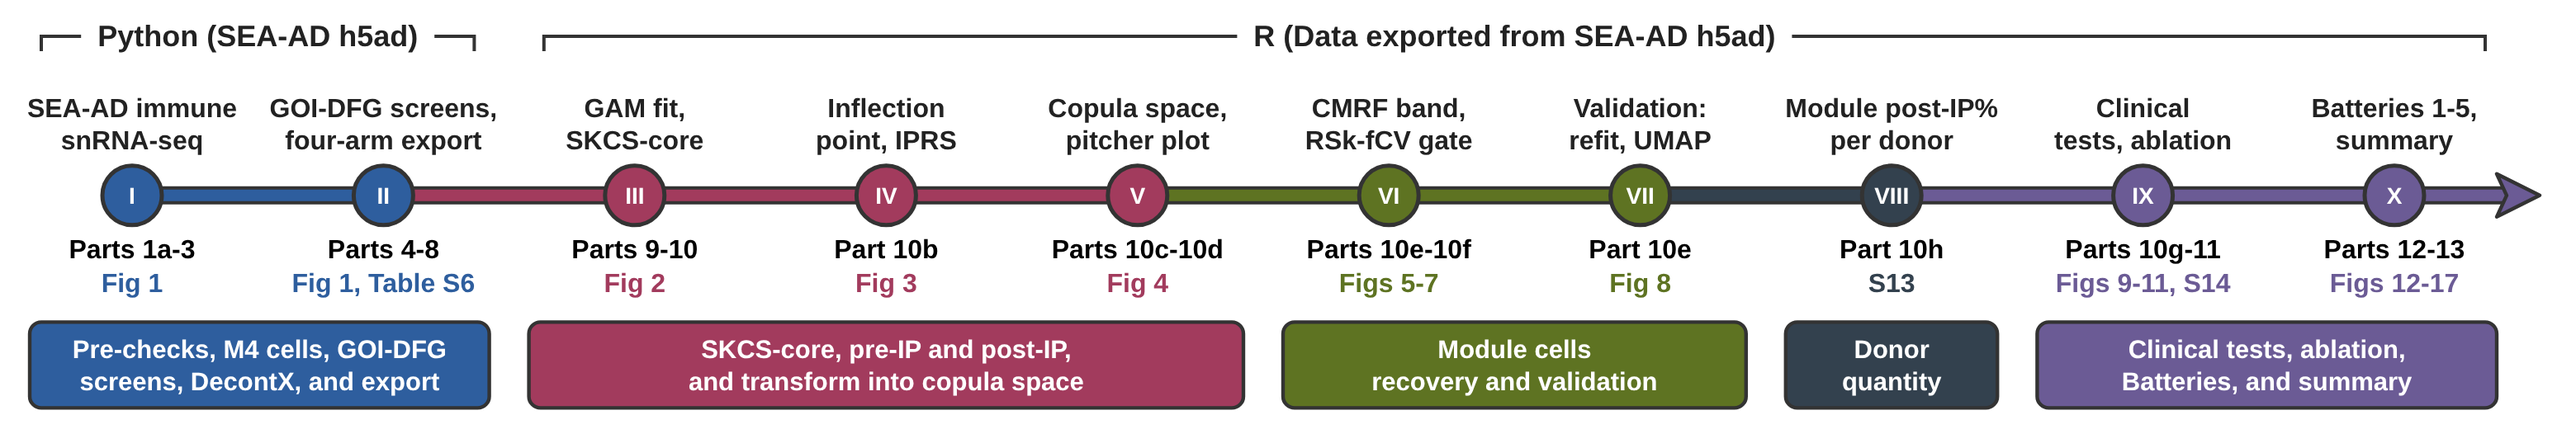
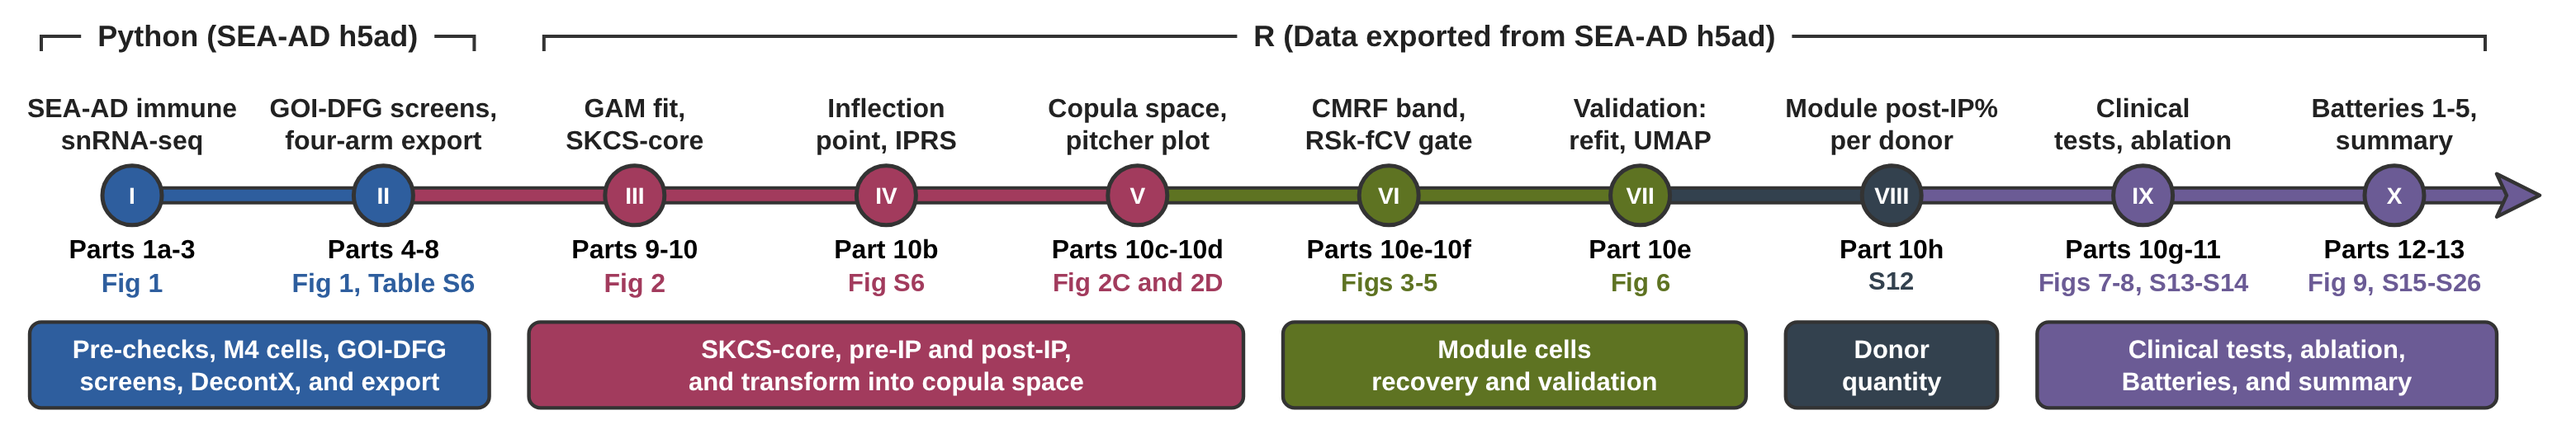
Align with the submitted version (bioRxiv v2): abstract, links, figure numbers, Workflow.png, CRAN note, external-validation run settings

diff --git a/README.md b/README.md
@@ -7,7 +7,7 @@
 [![Project Page](https://img.shields.io/badge/Code-GitHub-4E81BE?logo=github&logoColor=white&style=flat-square)](https://github.com/kahkengwong/CEP-IP_with_CMRF_in_SEA-AD)
 [![Dataset](https://img.shields.io/badge/Dataset-Hugging%20Face-B08C00?logo=huggingface&logoColor=F3D34E&style=flat-square)](https://huggingface.co/datasets/kahkengwong/CEP-IP_with_CMRF_in_SEA-AD)
 [![Supplementary](https://img.shields.io/badge/Supplementary-Zenodo-1682D4?logo=zenodo&logoColor=white&style=flat-square)](https://zenodo.org/records/23719390)
-[![Preprint](https://img.shields.io/badge/Preprint-bioRxiv-B31B1B?style=flat-square)](https://www.biorxiv.org/content/10.64898/2026.10.22.761284v1)
+[![Preprint](https://img.shields.io/badge/Preprint-bioRxiv-B31B1B?style=flat-square)](https://www.biorxiv.org/content/10.64898/2026.10.22.761284v2)
 [![Container](https://img.shields.io/badge/Container-Podman%20%7C%20Docker-892CA0?logo=podman&logoColor=white&style=flat-square)](#6-reproducing-the-analysis)
 [![R package](https://img.shields.io/badge/R%20package-cepip-276DC3?logo=r&logoColor=white&style=flat-square)](https://github.com/kahkengwong/cepip) [![CRAN](https://img.shields.io/cran/v/cepip?label=CRAN&logo=r&logoColor=white&color=276DC3&style=flat-square)](https://CRAN.R-project.org/package=cepip)
 
@@ -50,15 +50,9 @@
 <details>
 <summary><strong>Abstract (click to expand)</strong></summary>
 
-**Background:** Single-nucleus RNA-seq (snRNA-seq) studies of Alzheimer's disease (AD) routinely filter nuclei by mitochondrial percentage (%MT) or remove mitochondrial genes, yet whether these reads carry information about cognition is rarely examined.
+Single-nucleus RNA-seq (snRNA-seq) studies of Alzheimer's disease (AD) routinely filter nuclei by mitochondrial percentage (%MT), yet whether these reads carry information about cognition is rarely examined. In the Seattle Alzheimer's Disease Brain Cell Atlas (SEA-AD) microglia snRNA-seq dataset, a transcriptome-wide screen identified *MT-CO3* and eight co-expressed mitochondrial genes (*MT-CO3* module). Three microglial populations were analyzed: PVM_3, M4 (Mic.13-like), and PVM_1, with a housekeeping-gene control. The CEP-IP pipeline with a copula monotone recovery filter (CMRF) isolated cells following this module (Module cells) using per-cell Spearman and Kendall scores, an inflection point (IP), and a cross-validated copula space boundary. The donor percentage of Module cells past the IP (Module post-IP%) was associated with worse cognition (MMSE and CASI; FDR<0.05) in all three populations. In PVM_3 and M4, these associations remained significant after adjustment for tissue quality, pathology, or contamination, and after doublet removal. No per-cell %MT cutoff reproduced Module cells. In two external datasets without cognitive scores, the *MT-CO3* module and its IP replicated. Excluding mitochondrial genes or applying strict %MT cutoffs may therefore remove cells linked to cognition. However, the source of the mitochondrial transcripts remains unresolved. The R package cepip and a container that reproduced the findings are publicly available.
 
-**Methods:** In the SEA-AD microglia snRNA-seq dataset, a transcriptome-wide screen identified a module of *MT-CO3* and eight co-expressed mitochondrial genes. Three microglial populations were analyzed: M4 (Mic.13-like), PVM_3, and PVM_1, with a housekeeping-gene control in M4 cells. The CEP-IP pipeline with a copula monotone recovery filter (CMRF) used per-cell Spearman and Kendall scores, an inflection point (IP), and a cross-validated copula space boundary to isolate *MT-CO3* Module cells.
-
-**Results:** The donor percentage of Module cells past the IP (Module post-IP%) was significantly associated with worse cognition (MMSE and CASI; FDR<0.05) in all three populations. In M4 and PVM_3, these associations remained significant after adjustment for tissue quality, plaque burden, tangle burden, and contamination, and after doublet removal. M4 and PVM_3 Module post-IP% repeated in each donor's regions beyond chance, and no per-cell %MT cutoff reproduced the Module cells. However, at the donor level, Module post-IP% could not be separated from mean %MT, and the source of the mitochondrial transcripts (e.g., retained cytoplasm or a true change in mitochondrial content) remains unresolved.
-
-**Conclusions:** Routine %MT filtering in AD snRNA-seq may therefore remove cells that carry information about cognition. The full pipeline code, software container, processed data, and the R package cepip are publicly available, and reruns of the full pipeline in the container reproduced the original findings.
-
-> K.K. Wong (2026). CEP-IP with CMRF in SEA-AD Microglia: A Mitochondrial Co-expression Module Linked to Cognition. *bioRxiv*. https://www.biorxiv.org/content/10.64898/2026.10.22.761284v1
+> K.K. Wong (2026). CEP-IP with CMRF in SEA-AD Microglia: A Mitochondrial Co-expression Module Linked to Cognition. *bioRxiv*. https://www.biorxiv.org/content/10.64898/2026.10.22.761284v2
 
 </details>
 
@@ -85,8 +79,8 @@
 - **R Parts 9 to 13** take the data exported from the SEA-AD h5ad by Part 8: GAM fits, the Spearman-Kendall cell-level scores (SKCS), the inflection point (IP and IPRS), copula space, the CMRF Module, differential expression, the donor-level clinical models, the Module boundary ablation, the five Batteries (Part 12), and the M4 analyses (Part 13).
 
 **Four arms are analyzed in parallel:**
-1. **M4** - Mic.13-like cells shortlisted from Micro-PVM_3 cells (primary arm).
-2. **PVM_3** - all Micro-PVM_3 cells.
+1. **M4** - Mic.13-like cells shortlisted from Micro-PVM_3 cells (the primary arm when the pipeline was built).
+2. **PVM_3** - all Micro-PVM_3 cells (the recommended arm).
 3. **PVM_1** - all Micro-PVM_1 cells.
 4. **HKG8** - control: the M4 cells analyzed with ACTB as the gene of interest (GOI) and eight other housekeeping genes as its partners.
 
@@ -107,7 +101,7 @@
 <tr><td align="left" colspan="2"><b>2. Gerrits et al. single-nucleus dataset (GSE148822)</b></td></tr>
 <tr><td align="left"><b>Used in</b></td><td align="left">Battery 1 (ambient RNA)</td></tr>
 <tr><td align="left"><b>Available from</b></td><td align="left"><a href="https://www.ncbi.nlm.nih.gov/geo/query/acc.cgi?acc=GSE148822">GEO</a></td></tr>
-<tr><td align="left"><b>Reference</b></td><td align="left">E. Gerrits, N. Brouwer, S.M. Kooistra, M.E. Woodbury, Y. Vermeiren, et al., Distinct amyloid-beta and tau-associated microglia profiles in Alzheimer's disease, Acta Neuropathol, 141 (2021) 681-696. doi: 10.1007/s00401-021-02263-w</td></tr>
+<tr><td align="left"><b>Reference</b></td><td align="left">E. Gerrits, N. Brouwer, S.M. Kooistra, M.E. Woodbury, Y. Vermeiren, et al., Distinct amyloid-beta and tau-associated microglia profiles in Alzheimer's disease, Acta Neuropathol, 141 (2021) 681-696. <a href="https://doi.org/10.1007/s00401-021-02263-w">https://doi.org/10.1007/s00401-021-02263-w</a></td></tr>
 <tr><td align="left" colspan="2"><b>3. External dataset 1: Pineda et al. (2024)</b></td></tr>
 <tr><td align="left"><b>Files</b></td><td align="left"><ul><li>Raw reads of the 63 BA9 libraries of batch 210526: SRA <code>PRJNA1073234</code> (SRA Lite)</li><li>Donor metadata: <code>S01_sample_information.xlsx</code>, and the authors' per-library metadata (<code>&lt;LIB&gt;_col_metadata.tsv</code>)</li></ul></td></tr>
 <tr><td align="left"><b>Used in</b></td><td align="left">External validation 1 (<a href="#8-external-validation">Section 8</a>)</td></tr>
@@ -188,7 +182,7 @@ The five figures below follow the main steps of the analysis, using M4 NeoC as t
 | Path | Contents |
 |---|---|
 | `scripts/Python/` | <ul><li>The 23 Python scripts: Parts 1 to 8 and the Part 12 extraction step (`Part12_02_Extract.py`)</li><li>`Mic13_genes.txt`: the Mic.13 gene table read by Part 5b (from Green et al. 2024, Extended Data Fig. 2c)</li></ul> |
-| `scripts/R/` | <ul><li>The R scripts of Parts 9 to 13 and `Fig17_Summary_code.r`</li><li>The shared arm table and settings: `CEP_arms.R`, `R_config.R`, `R_config_HKG8.R`</li><li>The Part 12 settings: `Part12_01_config.json`, `Part12_Fig19_config.json`</li><li>The pre-specified readings of the Batteries: `Part12_Preset_Readings.md`, `Part12_Preset_Readings_Battery5.md`</li></ul> |
+| `scripts/R/` | <ul><li>The R scripts of Parts 9 to 13 and `Fig17_Summary_code.r`</li><li>The shared arm table and settings: `CEP_arms.R`, `R_config.R`, `R_config_HKG8.R`</li><li>The Part 12 settings: `Part12_01_config.json`, `Part12_Fig19_config.json`</li><li>The pre-specified readings of the Batteries: `Batteries_1-5_Pre-specified_Readings.md` and `Batteries_1-5_Pre-specified_Readings_Battery5.md` (named `Part12_Preset_Readings*.md` in the logs)</li></ul> |
 | `scripts/SuppTables/` | The scripts that build Supplementary Tables S1 to S19 from the pipeline outputs:<ul><li>One builder per table: `build_SuppTable_S<n>`</li><li>`finalize_supp_tables.py`: published sheet names, Contents and wording, from `supp_tables_contents.json`</li><li>`run_supp_tables.sh`</li><li>`compare_supp_tables.py`</li></ul> |
 | `Containerfile` | Recipe for the container image (R 4.6.1, Python 3.13.14, all packages). Works with Podman or Docker. |
 | `seaad-setup.sh` | Run once inside the container: copies the settings into the data folder and checks the inputs. |
@@ -196,7 +190,7 @@ The five figures below follow the main steps of the analysis, using M4 NeoC as t
 | `README_container.md` | Container build, inputs, and the full run order. |
 | `renv.lock` | Exact R package versions (R 4.6.1, Bioconductor 3.23; 280 packages). |
 | `requirements-python.txt` | Exact Python package versions (Python 3.13.14). |
-| `verification/` | <ul><li>`run_rest.sh` and `run_python.sh`: the run scripts used for the reproducibility check, before `seaad-run`</li><li>`compare_rerun.py`, `compare_python.py`, and `compare_gamdata.py`: compare a rerun with the original results</li><li>The comparisons of the container reruns with the original results: `compare_all_*` for R; `compare_python_*` and `compare_gamdata_log.txt` for Python</li></ul> |
+| `verification/` | <ul><li>`run_rest.sh` and `run_python.sh`: the run scripts used for the reproducibility check, before `seaad-run`</li><li>`compare_rerun.py`, `compare_python.py`, and `compare_gamdata.py`: compare a rerun with the original results</li><li>The comparisons of the container reruns with the original results: `compare_all_*` for R; `compare_python_*` and `compare_gamdata_log.txt` for Python</li><li>`fulltest_*`: the comparisons of the one-command run (`seaad-run all --compare`)</li><li>`windows_test/`: the independent test on Windows 11</li></ul> |
 | `external_validation/` | <ul><li>`README.md`: the datasets, results, rerun steps, and reproducibility checks of both external validations</li><li>`Pineda/`: the download and Cell Ranger scripts, the scripts R02 to R17, the Table S20 builder, the container recipe, the run script `pineda-run`, and `README_container_Pineda.md`</li><li>`Rexach/`: the scripts R11 to R17, the Table S21 builder, the container recipe, the run script `rexach-run`, and `README_container_Rexach.md`</li><li>`Pineda/verification/` and `Rexach/verification/`: the comparisons of the container reruns with the original results</li></ul> |
 | `figures/` | The workflow figure (`Workflow.png`) and Figures 1 to 5 of the Methods and Key Results section. |
 | `logs/` | <ul><li>`container_rerun/`: console logs of the container rerun of R Part 9 onward and the Part 12 Python step</li><li>`container_rerun_python/`: console logs of the container rerun of Python Parts 1 to 8</li><li>`container_fullrun/`: console logs of the one-command run (`seaad-run all`) in a new folder</li><li>`original_R/`: logs of the original runs from Part 9 onward</li><li>`original_python/`: logs of the original runs of Python Parts 1 to 8</li><li>`logs/README.md` describes each folder and maps the Python logs to their scripts</li></ul> |
@@ -207,7 +201,7 @@ The five figures below follow the main steps of the analysis, using M4 NeoC as t
 Figure and table numbers are those of the preprint.
 
 > [!NOTE]
-> The Part 12 file names (`Fig15` to `Fig19`) follow the run order of the Batteries; they correspond to preprint Figures 12 to 16.
+> Figure numbers in file names are those of the original analysis run: `Part12_Fig15` to `Part12_Fig19` are Supplementary Figures S15, S17, S19, S21, and S24, `Part10h_CP10K_Comparator_Fig13_code.r` is Figure 8, and `Fig17_Summary_code.r` is Figure 9.
 
 <details>
 <summary><strong>Python scripts (SEA-AD h5ad): Parts 1 to 8 and the Part 12 extraction (click to expand)</strong></summary>
@@ -222,12 +216,12 @@ Figure and table numbers are those of the preprint.
 | 6 | `Part1f_Ordinals_code.py` | Clinical ordinals and donor table with tissue-quality covariates. | Pre-check |
 | 7 | `Part1g_TrendReconcile_code.py` | Detectability trend on two abundance axes. | Figure 1G |
 | 8 | `Part2_NeoC_CP10K_code.py`<br>`Part2_NonNeoC_CP10K_code.py` | M4 selection with the Mic.13 signature; writes the donor clinical tables. | Supplementary Figure S1A, Table S1 |
-| 9 | `Part3_M4Composition_code.py` | Supertype composition of the M4 set. | Figure 1B |
-| 10 | `Part4_NeoC_ScreenScatter.py`<br>`Part4_NonNeoC_ScreenScatter.py` | PVM_3 pooled GOI-DFG screen. | Figure 1D |
-| 11 | `Part5_NeoC_DEGs.py`<br>`Part5_NonNeoC_DEGs.py` | Pseudobulk DEGs of M4 cells. | Figure 1 |
-| 12 | `Part5b_NeoC_Validation.py`<br>`Part5b_NonNeoC_Validation.py` | Mic.13 equivalence validation. | Figure 1 |
-| 13 | `Part6_NeoC_GOI-DFG_code.py`<br>`Part6_NonNeoC_GOI-DFG_code.py` | GOI-DFG screen by region and supertype. | Figure 1, Tables S2 to S4 |
-| 14 | `Part6b_NeoC_Pooled_GOI-DFG.py`<br>`Part6b_NonNeoC_Pooled_GOI-DFG.py` | Pooled GOI-DFG screen in seven immune supertypes. | Figure 1, Tables S2 to S4 |
+| 9 | `Part3_M4Composition_code.py` | Supertype composition of the M4 set. | Figure 1A and 1B |
+| 10 | `Part4_NeoC_ScreenScatter.py`<br>`Part4_NonNeoC_ScreenScatter.py` | PVM_3 pooled GOI-DFG screen. | Figure 1C and 1D |
+| 11 | `Part5_NeoC_DEGs.py`<br>`Part5_NonNeoC_DEGs.py` | Pseudobulk DEGs of M4 cells. | Table S2 |
+| 12 | `Part5b_NeoC_Validation.py`<br>`Part5b_NonNeoC_Validation.py` | Mic.13 equivalence validation. | Table S2 |
+| 13 | `Part6_NeoC_GOI-DFG_code.py`<br>`Part6_NonNeoC_GOI-DFG_code.py` | GOI-DFG screen by region and supertype. | Figure 1E, Tables S3 and S4 |
+| 14 | `Part6b_NeoC_Pooled_GOI-DFG.py`<br>`Part6b_NonNeoC_Pooled_GOI-DFG.py` | Pooled GOI-DFG screen in seven immune supertypes. | Figure 1F, Tables S3 and S4 |
 | 15 | `Part7_DecontX.py` | DecontX ambient RNA estimate per library. | Table S6 |
 | 16 | `Part8_Data-export-CP10K_MT-CO3_8DFG.py` | Exports one arm for the R parts (run once per arm). | Input to Parts 9 to 13 |
 | 17 | `Part12_02_Extract.py` | Part 12 step 02: extracts the cells and counts the Batteries use. | Input to Part 12 |
@@ -235,47 +229,47 @@ Figure and table numbers are those of the preprint.
 </details>
 
 <details>
-<summary><strong>R scripts (data exported from SEA-AD h5ad): Parts 9 to 13 and the Figure 17 summary (click to expand)</strong></summary>
+<summary><strong>R scripts (data exported from SEA-AD h5ad): Parts 9 to 13 and the Figure 9 summary (click to expand)</strong></summary>
 
 | No | Script File | Description | Paper output |
 |----|---|---|---|
-| 1 | `Part9_CP10K_QC_GAM_code.r` | Export QC, heatmaps and GAM fits. | Figure 2, Supplementary Figures S2, S3, S5, Table S7 |
+| 1 | `Part9_CP10K_QC_GAM_code.r` | Export QC, heatmaps and GAM fits. | Figures 1H and 2, Supplementary Figures S2, S3, and S5, Table S7 |
 | 2 | `Part9b_CP10K_SiKi_code.r` | Justifies the S<sub>i</sub> floor. | Supplementary Figure S4, Table S7 |
-| 3 | `Part10_CP10K_SKCS_code.r` | SKCS decomposition and TREP classification. | Figures 2 and 3, Supplementary Figures S5 and S7, Table S7 |
-| 4 | `Part10b_CP10K_IPRS_code.r` | Inflection point detection and IPRS. | Figure 3, Supplementary Figure S6, Table S8 |
+| 3 | `Part10_CP10K_SKCS_code.r` | SKCS decomposition and TREP classification. | Figure 2, Supplementary Figures S5 and S7, Table S7 |
+| 4 | `Part10b_CP10K_IPRS_code.r` | Inflection point detection and IPRS. | Supplementary Figure S6, Table S8 |
 | 5 | `Part10b_CP10K_SKCS_TREP_code.r` | SKCS fixed thresholds and IP x TREP classes. | Table S7 |
-| 6 | `Part10c_CP10K_Copula1_code.r` | Copula space. | Figure 4, Supplementary Figures S8 to S10, Table S9 |
-| 7 | `Part10d_CP10K_Copula2_code.r` | The IP and gates in copula coordinates. | Figure 4, Supplementary Figures S8 to S10, Table S9 |
+| 6 | `Part10c_CP10K_Copula1_code.r` | Copula space. | Figure 2C and 2D, Supplementary Figures S8 and S9, Table S9 |
+| 7 | `Part10d_CP10K_Copula2_code.r` | The IP and gates in copula coordinates. | Figure 2C and 2D, Supplementary Figures S8 and S9, Table S9 |
 | 8 | `Part10e_CP10K_CMRF_code.r` | Copula monotone recovery filter (CMRF). | Table S10 |
-| 9 | `Part10e_CP10K_Validation1_code.r` | GAM refit on the final Module. | Figure 8A, Table S10 |
-| 10 | `Part10e_CP10K_Validation2_UMAP_code.r` | CMRF classes in a raw-count UMAP. | Figure 8B and 8C, Table S10 |
-| 11 | `Part10f_CP10K_Band_Formation_code.r` | Band-formation figures. | Figure 6, Supplementary Figures S11 and S12 |
-| 12 | `Part10f_CP10K_CMRF_RSkfCV_Mechanism_code.r` | How the RSk-fCV gate works. | Figure 7 |
+| 9 | `Part10e_CP10K_Validation1_code.r` | GAM refit on the final Module. | Figure 6A, Table S10 |
+| 10 | `Part10e_CP10K_Validation2_UMAP_code.r` | CMRF classes in a raw-count UMAP. | Figure 6B and 6C, Table S10 |
+| 11 | `Part10f_CP10K_Band_Formation_code.r` | Band-formation figures. | Figure 4, Supplementary Figures S10 and S11 |
+| 12 | `Part10f_CP10K_CMRF_RSkfCV_Mechanism_code.r` | How the RSk-fCV gate works. | Figure 5 |
 | 13 | `Part10g_CP10K_DEGs_Part1_code.r` | Paired pseudobulk differential expression in the Module. | Table S11 |
 | 14 | `Part10g_Step7to9_rebuild_code.r` | Targeted tests, control overlap and ambient check. | Table S11 |
-| 15 | `Part10h_CP10K_Prognosis_code.r` | Donor-level clinical models. | Figure 9A, Supplementary Figure S14, Table S12 |
-| 16 | `Part10h_CP10K_Prognosis_1_Comparator_code.r` | Comparison with five external baselines. | Figure 10A and 10B, Table S12 |
-| 17 | `Part10h_CP10K_Prognosis_2_CogVsPath_code.r` | Cognition against pathology. | Figure 9B and 9C, Table S12 |
-| 18 | `Part10h_CP10K_Prognosis_4_Multivariate_code.r` | Module against a gene score plus a cell count. | Figure 10C and 10D, Table S12 |
-| 19 | `Part10h_CP10K_Comparator_Fig13_code.r` | Draws the comparator figures. | Figure 10A to 10D |
-| 20 | `Part11_CP10K_CogVsPath_code.r` | Module minus non-Module contrast. | Figure 9D, Table S12 |
-| 21 | `Part11_CP10K_CogVsPath_HighLevel_code.r` | Summary panel of the four cell populations. | Figure 9E |
-| 22 | `Part11_Identity_BandAblation_code.r` | Module boundary ablation. | Figure 11A and 11C, Table S12 |
-| 23 | `Part11_BandAblation_Fig11Export_code.r` | Boundary lines and cell membership. | Figure 11B, Table S12 |
+| 15 | `Part10h_CP10K_Prognosis_code.r` | Donor-level clinical models. | Figure 7A, Supplementary Figure S13, Table S12 |
+| 16 | `Part10h_CP10K_Prognosis_1_Comparator_code.r` | Comparison with five external baselines. | Figure 8A and 8B, Table S12 |
+| 17 | `Part10h_CP10K_Prognosis_2_CogVsPath_code.r` | Cognition against pathology. | Figure 7B and 7C, Table S12 |
+| 18 | `Part10h_CP10K_Prognosis_4_Multivariate_code.r` | Module against a gene score plus a cell count. | Figure 8C and 8D, Table S12 |
+| 19 | `Part10h_CP10K_Comparator_Fig13_code.r` | Draws the comparator figures. | Figure 8A to 8D |
+| 20 | `Part11_CP10K_CogVsPath_code.r` | Module minus non-Module contrast. | Figure 7D, Table S12 |
+| 21 | `Part11_CP10K_CogVsPath_HighLevel_code.r` | Summary panel of the four cell populations. | Figure 7E |
+| 22 | `Part11_Identity_BandAblation_code.r` | Module boundary ablation. | Supplementary Figure S14A and S14C, Table S12 |
+| 23 | `Part11_BandAblation_Fig11Export_code.r` | Boundary lines and cell membership. | Supplementary Figure S14B, Table S12 |
 | 24 | `Part12_03_Config.r` | Shared settings and functions of Part 12 (sourced by each step). | - |
 | 25 | `Part12_04_Labels.r`<br>`Part12_05_Units.r`<br>`Part12_06_GerritsCells.r` | Cell labels, donor-region units, and Gerrits cells. | Inputs to the Batteries |
-| 26 | `Part12_Fig15_Analysis.r`<br>`Part12_Fig15_Plots.r` | Battery 1: contamination. | Figure 12, Table S13 |
-| 27 | `Part12_Fig16_Analysis.r`<br>`Part12_Fig16_Plots.r` | Battery 2: measurement. | Figure 13, Table S14 |
-| 28 | `Part12_Fig17_Analysis.r`<br>`Part12_Fig17_Plots.r` | Battery 3: Module post-IP% and %MT on histology and clinical outcomes. | Figure 14, Table S15 |
-| 29 | `Part12_Fig18_Analysis.r`<br>`Part12_Fig18_Plots.r` | Battery 4: tests whether %MT can replace the Module. | Figure 15, Table S16 |
-| 30 | `Part12_Fig19_Analysis.r`<br>`Part12_Fig19_Plots.r` | Battery 5: the 11 severely affected donors. | Figure 16, Table S17 |
-| 31 | `Part12_ModulePostIP_Overview.r` | Module post-IP% overview. | Supplementary Figure S13 |
+| 26 | `Part12_Fig15_Analysis.r`<br>`Part12_Fig15_Plots.r` | Battery 1: contamination. | Supplementary Figures S15 and S16, Table S13 |
+| 27 | `Part12_Fig16_Analysis.r`<br>`Part12_Fig16_Plots.r` | Battery 2: measurement. | Supplementary Figures S17 and S18, Table S14 |
+| 28 | `Part12_Fig17_Analysis.r`<br>`Part12_Fig17_Plots.r` | Battery 3: Module post-IP% and %MT on histology and clinical outcomes. | Supplementary Figures S19 and S20, Table S15 |
+| 29 | `Part12_Fig18_Analysis.r`<br>`Part12_Fig18_Plots.r` | Battery 4: tests whether %MT can replace the Module. | Supplementary Figures S21 to S23, Table S16 |
+| 30 | `Part12_Fig19_Analysis.r`<br>`Part12_Fig19_Plots.r` | Battery 5: the 11 severely affected donors. | Supplementary Figure S24, Table S17 |
+| 31 | `Part12_ModulePostIP_Overview.r` | Module post-IP% overview. | Supplementary Figure S12 |
 | 32 | `Part10g_CP10K_DEGs_Part1_code_S11_followup_analyses.r` | Follow-up DE analyses (reads the Part 12 labels). | Table S11 |
 | 33 | `Part13a_CP10K_Find14DpctMT_code.r` | Donor %MT for the Part 13 model. | Input to Part 13 |
-| 34 | `Part13_CP10K_M4Share_code.r` | Tests whether the donor's M4 share explains the M4 results. | Input to Part 13c (Supplementary Figure S20, Table S18) |
-| 35 | `Part13b_CP10K_M4RandomSubset_code.r` | M4 cells against random PVM_3 cells. | Input to Part 13c (Supplementary Figure S21, Table S18) |
-| 36 | `Part13c_CP10K_M4_SuppConsolidate_code.r` | Draws the Part 13 and 13b figures and collects their values. | Supplementary Figures S20 and S21, Table S18 |
-| 37 | `Fig17_Summary_code.r` | Summary of all tests of Module post-IP%. | Figure 17, Table S19 |
+| 34 | `Part13_CP10K_M4Share_code.r` | Tests whether the donor's M4 share explains the M4 results. | Input to Part 13c (Supplementary Figure S25, Table S18) |
+| 35 | `Part13b_CP10K_M4RandomSubset_code.r` | M4 cells against random PVM_3 cells. | Input to Part 13c (Supplementary Figure S26, Table S18) |
+| 36 | `Part13c_CP10K_M4_SuppConsolidate_code.r` | Draws the Part 13 and 13b figures and collects their values. | Supplementary Figures S25 and S26, Table S18 |
+| 37 | `Fig17_Summary_code.r` | Summary of all tests of Module post-IP%. | Figure 9, Table S19 |
 
 </details>
 
@@ -314,7 +308,7 @@ The analysis runs in a container that holds R 4.6.1, Python 3.13.14 and every pa
 ### 6.1 Get the data
 | Source | Files | Needed for |
 |---|---|---|
-| [Hugging Face](https://huggingface.co/datasets/kahkengwong/CEP-IP_with_CMRF_in_SEA-AD) | <ul><li>`R_export_CP10K/`: Part 8 export of the four arms, about 14 GB</li><li>The Part 2 donor tables: `NeoC_S5b_donor_clinical.csv`, `NonNeoC_S5b_donor_clinical.csv`</li><li>`Part7_DecontX/decontX_contamination_all.csv`</li></ul> | R Parts 9 to 13 |
+| [Hugging Face](https://huggingface.co/datasets/kahkengwong/CEP-IP_with_CMRF_in_SEA-AD) | <ul><li>`R_export_CP10K/`: Part 8 export of the four arms, 14.9 GB</li><li>The Part 2 donor tables: `NeoC_S5b_donor_clinical.csv`, `NonNeoC_S5b_donor_clinical.csv`</li><li>`Part7_DecontX/decontX_contamination_all.csv`</li></ul> | R Parts 9 to 13 |
 | [SEA-AD portal](https://brain-map.org/consortia/sea-ad/our-data) | Immune h5ad (2026-06-22 release), the donor metadata workbook (`MetaData/sea-ad_cohort_donor_metadata_072524.xlsx`), and the neuropathology and CPS workbooks | Python Parts 1 to 8, Part 12 |
 | [GEO GSE148822](https://www.ncbi.nlm.nih.gov/geo/query/acc.cgi?acc=GSE148822) | Gerrits deposit, placed in `Gerrits/` with the series matrix in `Gerrits/Metadata/` | Part 12 (Battery 1) |
 
@@ -368,9 +362,9 @@ podman run --rm --shm-size=16g -v /path/to/data_folder:/data:Z seaad-cepip seaad
 > `--shm-size=16g` gives the container enough shared memory for Part 7 (DecontX), whose worker processes share the count matrix. Without it, Part 7 stops with a bus error.
 
 ii) To run part of the analysis, replace `all` with another mode:
-- `seaad-run all`: every script in order, from the SEA-AD h5ad to Figure 17 and Supplementary Tables S1 to S19.
+- `seaad-run all`: every script in order, from the SEA-AD h5ad to Figure 9 and Supplementary Tables S1 to S19.
 - `seaad-run python`: Python Parts 1 to 8 and Tables S1 to S6.
-- `seaad-run r`: R Parts 9 to 13, Figure 17 and Tables S7 to S19, from the Hugging Face files and the SEA-AD inputs of Part 12.
+- `seaad-run r`: R Parts 9 to 13, Figure 9 and Tables S7 to S19, from the Hugging Face files and the SEA-AD inputs of Part 12.
 - `seaad-run hf`: R Parts 9 to 11 and Tables S7 to S10 and S12, from the Hugging Face files only.
 - `seaad-run tables`: Tables S1 to S19 from outputs already in the data folder.
 - `seaad-run list all`: prints the steps.
@@ -422,7 +416,7 @@ The original analysis ran R on Windows 11 and Python on Fedora 44. The whole pip
 | R package cepip (`reproduce_seaad.R`), PVM_3 and HKG8 arms | 698 values | 698 | None. | In the [cepip](https://github.com/kahkengwong/cepip) repository |
 | Independent test on Windows 11 | 1,073 tables and 698 values | 1,020 tables and 698 values | 53 tables of the same secondary statistics. 13 of 324 UMAP-based FDR calls of Part 10e changed, and these calls are not reported in the preprint text. The clinical associations were identical. | `windows_test/` |
 
-- **Agreed:** the same, or different only in sign, row order, or the way a value is written, or by at most 0.1%.
+- **Agreed:** the same, or different only in sign, row order, or the way a value is written, or by at most 0.1%. The four R tables that differ only in size (see the breakdown below) are also counted as agreed.
 - **Independent test:** a second person not involved in the analysis ran both checks on 21 October 2026, on a Windows 11 laptop (32 GB RAM, Docker Desktop). The container was built from this repository at commit d4a82aa and ran R Parts 9 to 11 and Tables S7 to S10 and S12 with `seaad-run hf`.
 
 </details>
@@ -461,7 +455,7 @@ The original analysis ran R on Windows 11 and Python on Fedora 44. The whole pip
 | Differ only in sign, row order, or text | 110 | - |
 | Differ by at most 0.1% | 23 | - |
 | Differ in size | 4 | A checksum column was removed from the deposited scripts, or the original folder held more files to scan. |
-| Differ by more than 0.1% | 53 | <ul><li>the TOST, PERMANOVA and PERMDISP, kBET, iLISI, and neighbour-proportion tests of Part 10e Validation2 (with their columns in the Figure 11 summary)</li><li>the permutation null threshold of Part 10f</li><li>the Part 12 depth-thinning curve</li><li>some donor-level p-values in four Part 10g tables</li></ul> |
+| Differ by more than 0.1% | 53 | <ul><li>the TOST, PERMANOVA and PERMDISP, kBET, iLISI, and neighbour-proportion tests of Part 10e Validation2 (with their columns in the Figure 6C summary)</li><li>the permutation null threshold of Part 10f</li><li>the Part 12 depth-thinning curve</li><li>some donor-level p-values in four Part 10g tables</li></ul> |
 | **Total** | **1,203** | - |
 
 **Supplementary Tables:** the 19 tables were rebuilt from the rerun outputs with the scripts in `scripts/SuppTables/`.
@@ -484,7 +478,7 @@ Tables found only in the original results come from scripts or steps that are no
 ---
 
 ## 8. External Validation
-The pipeline was rerun with the R package [cepip](https://github.com/kahkengwong/cepip) (0.1.0, commit fe4b269) at the SEA-AD settings on two independent snRNA-seq datasets: Pineda et al. (2024; prefrontal cortex, ALS and FTLD) and Rexach et al. (2024; insula, AD, bvFTD, and PSP).
+The pipeline was rerun with the R package [cepip](https://github.com/kahkengwong/cepip) (0.1.0, commit fe4b269, the same code as the CRAN release) at the SEA-AD settings on two independent snRNA-seq datasets: Pineda et al. (2024; prefrontal cortex, ALS and FTLD) and Rexach et al. (2024; insula, AD, bvFTD, and PSP).
 
 - The *MT-CO3* module replicated in both datasets (5 of 8 DFGs at tier 1), and the PVM_3 IP passed (IPRS 0.754 and 0.758). The HKG8 control had no IP.
 - Module post-IP% showed a non-significant increase over controls in AD and bvFTD (insula), and no difference from controls in FTLD and ALS (prefrontal cortex).
@@ -543,7 +537,7 @@ The figures and the output files derived from the SEA-AD data (for example, in `
 ---
 
 ## 12. Citation
-K.K. Wong. CEP-IP with CMRF in SEA-AD Microglia: A Mitochondrial Co-expression Module Linked to Cognition. *bioRxiv* (2026). https://www.biorxiv.org/content/10.64898/2026.10.22.761284v1
+K.K. Wong. CEP-IP with CMRF in SEA-AD Microglia: A Mitochondrial Co-expression Module Linked to Cognition. *bioRxiv* (2026). https://www.biorxiv.org/content/10.64898/2026.10.22.761284v2
 
 K.K. Wong. CEP-IP: An explainable framework for cell subpopulation identification in single-cell transcriptomics. *Computer Methods and Programs in Biomedicine*, 282 (2026) 109372. https://doi.org/10.1016/j.cmpb.2026.109372
 
@@ -559,7 +553,7 @@ The methods are implemented in the R package cepip, available on [CRAN](https://
   journal = {bioRxiv},
   year    = {2026},
   doi     = {10.64898/2026.10.22.761284},
-  url     = {https://www.biorxiv.org/content/10.64898/2026.10.22.761284v1}
+  url     = {https://www.biorxiv.org/content/10.64898/2026.10.22.761284v2}
 }
 
 @article{Wong2026CEPIP,

diff --git a/external_validation/Pineda/README_container_Pineda.md b/external_validation/Pineda/README_container_Pineda.md
@@ -49,7 +49,7 @@ Place these in the data folder before running:
 2) `05_cellranger_metrics.csv` (the Cell Ranger metrics of the 63 libraries, read by R02) and `Pineda_BA9_210526_manifest.tsv`.
 3) The S01 workbook `S01_sample_information.xlsx` of Pineda et al. 2024 (Synapse syn51105515), read by R11 and R15.
 4) `Pineda2024_metadata/`, with the authors' `<LIB>_col_metadata.tsv` file of each library (Synapse syn51105515). R12 and R13 keep the nuclei of the authors' published QC: a nucleus is kept when its barcode is in the authors' file.
-5) `Stats_15H.csv`, the SEA-AD source data of Figure 15H, read by R13 for the expected r_s.
+5) `Stats_15H.csv`, the SEA-AD source data of Supplementary Figure S15H, read by R13 for the expected r_s.
 6) The MapMyCells results of the original run. MapMyCells is a web service of the Allen Institute and is not run in the container. The same file mapped twice gave another Deep Generative Mapping supertype for 0.8% of nuclei, so the rerun uses these files:
    - `R13_mapmycells_output/`: 12 csv files (six parts, each with Deep Generative Mapping and Hierarchical Mapping), the nuclei of the authors' QC. R13 checks that each file covers exactly the nuclei of its part in the rerun of R12, so the rerun stops if R12 does not reproduce the parts.
    - `R13_mapmycells_output_allKept/` and `R13_mapmycells_output_allKept_repeat/`: 26 csv files each, all R02 kept nuclei mapped before the authors' QC, and the same files mapped again. Read by R13b and R13c for sheets J and K of Table S20.
@@ -60,13 +60,13 @@ Place these in the data folder before running:
 ## 4. Run
 
 ```bash
-podman run --rm -e PINEDA_FIGURE=18 -v /path/to/Pineda_rerun:/data:Z pineda-cepip pineda-run all
+podman run --rm -v /path/to/Pineda_rerun:/data:Z pineda-cepip pineda-run all
 ```
 
 `:Z` lets the container use the folder on systems with SELinux, such as Fedora. With Docker Desktop on Windows, give the Windows path and leave out `:Z`. To compare the rerun with the original results, mount the original `External_Dataset_1` folder read-only at `/ref`, and the original `Manuscript/Supp_Tables` folder at `/ref_supp`, and add `--compare`:
 
 ```bash
-podman run --rm -e PINEDA_FIGURE=18 -v /path/to/Pineda_rerun:/data:Z \
+podman run --rm -v /path/to/Pineda_rerun:/data:Z \
     -v /path/to/SEA-AD/External_Dataset_1:/ref:ro,Z \
     -v /path/to/SEA-AD/Manuscript/Supp_Tables:/ref_supp:ro,Z \
     pineda-cepip pineda-run all --compare
@@ -80,7 +80,7 @@ podman run --rm -e PINEDA_FIGURE=18 -v /path/to/Pineda_rerun:/data:Z \
 
 Settings, given with `-e` on the run line:
 
-1) `PINEDA_FIGURE`. The main figure number in the Table S20 title and file name (default 19). The preprint numbers this figure 18, so the commands above give `-e PINEDA_FIGURE=18`. The default of 19 is kept so that `pineda-run` matches the image on Zenodo. The author's container rerun and the independent test ran with the default, before the figure was renumbered; the figure number changes only the title of the Contents sheet and the file name of Table S20.
+1) `PINEDA_FIGURE`. The figure number in the Table S20 title and file name (default 19, as in the image on Zenodo). The submitted version shows this figure as Supplementary Figure S27, which the builder cannot write, so a rerun differs from the published Table S20 only in the title of the Contents sheet and the file name.
 2) `PINEDA_WORKERS`. The libraries processed at the same time in R02 and the workers of `cepip()` in R14 (default 6). The results do not depend on the number of workers. Each R02 worker holds one raw matrix in memory and used up to 9 GB in the author's rerun, so 4 workers need about 36 GB. On a computer with less memory, use `-e PINEDA_WORKERS=2`. WSL gives Linux half of the Windows memory by default; a `.wslconfig` file in the Windows user folder with the lines `[wsl2]`, `memory=40GB`, and `swap=16GB` raises it after `wsl --shutdown`.
 
 Each step's console output is saved to `pineda-run_logs/<step>.txt`, and the start, end, and result of every step to `pineda-run_logs/pineda-run_summary.txt`. The run stops at the first step that fails, because later steps read earlier outputs, and prints the command to resume from that step. A step fails when it exits with an error, or when its log shows a Python traceback, a failed check (`[FAIL]`, `VERDICT: FAIL`) or a stop (`STOPPED`, `ERROR:`, `Execution halted`). R02 also fails unless all 63 libraries finished.

diff --git a/external_validation/README.md b/external_validation/README.md
@@ -1,6 +1,6 @@
 # External Validation
 
-The pipeline was run on two independent snRNA-seq datasets with the R package [cepip](https://github.com/kahkengwong/cepip) (0.1.0, commit fe4b269) at the SEA-AD settings. Each dataset was run on the PVM_3 arm (Micro-PVM_3 nuclei with *MT-CO3*>0), with the HKG8 arm as the control.
+The pipeline was run on two independent snRNA-seq datasets with the R package [cepip](https://github.com/kahkengwong/cepip) (0.1.0, commit fe4b269, the same code as the CRAN release) at the SEA-AD settings. Each dataset was run on the PVM_3 arm (Micro-PVM_3 nuclei with *MT-CO3*>0), with the HKG8 arm as the control.
 
 ## 1. Contents of this folder
 | Folder | Contents |
@@ -22,7 +22,7 @@ The pipeline was run on two independent snRNA-seq datasets with the R package [c
 | **Module** | 1,225 of 1,817 PVM_3 arm cells, of which 219 Recovered by CMRF | 2,578 of 3,417 PVM_3 arm cells, of which 430 Recovered by CMRF |
 | **Module post-IP% against diagnosis** | Standardized β against PN, adjusted for age at death and sex: FTLD -0.122 and ALS -0.187. With PMI added: FTLD -0.019 and ALS -0.074. FDR=0.923 for all four contrasts. | Standardized β against controls, adjusted for age at death, sex, and PMI: all three diagnoses 0.277 (FDR=0.261), AD 0.478 (FDR=0.254), bvFTD 0.641 (FDR=0.254), and PSP 0.064 (FDR=0.882) |
 | **Post hoc** | A permutation test, leave-one-donor-out refits, a donor bootstrap, Firth logistic regression, the difference from the SEA-AD β, and the power to detect the SEA-AD NeoC β (0.465) | The same as for external dataset 1 |
-| **Preprint** | Figure 18 and Supplementary Table S20 | Figure 19 and Supplementary Table S21 |
+| **Preprint** | Supplementary Figure S27 and Supplementary Table S20 | Figure 10 and Supplementary Table S21 |
 
 ## 3. Rerunning an external validation
 Each external validation has its own container, built on the SEA-AD container. The steps, inputs, and outputs are in the README of its folder.
@@ -32,7 +32,7 @@ Each external validation has its own container, built on the SEA-AD container. T
 | **Instructions** | [`README_container_Pineda.md`](Pineda/README_container_Pineda.md) | [`README_container_Rexach.md`](Rexach/README_container_Rexach.md) |
 | **Container image** | `pineda-cepip_image.tar.gz` on Zenodo (https://doi.org/10.5281/zenodo.23653156), or built from `Pineda/Containerfile` | `rexach-cepip_image.tar.gz` on Zenodo (https://doi.org/10.5281/zenodo.23653156), or built from `Rexach/Containerfile` |
 | **Inputs** | The 63 Cell Ranger raw count matrices, the MapMyCells outputs, and the other input files from [Hugging Face](https://huggingface.co/datasets/kahkengwong/CEP-IP_with_CMRF_in_SEA-AD), folder `external_validation/Pineda/`. The S01 workbook and the authors' per-library metadata from Synapse (syn51105515). | The h5ad from CELLxGENE. The MapMyCells outputs and the SEA-AD %MT table from [Hugging Face](https://huggingface.co/datasets/kahkengwong/CEP-IP_with_CMRF_in_SEA-AD), folder `external_validation/Rexach/`. Table S1 from the paper. |
-| **Command** | `podman run --rm -e PINEDA_FIGURE=18 -v /path/to/Pineda_rerun:/data:Z pineda-cepip pineda-run all` | `podman run --rm -v /path/to/Rexach_rerun:/data:Z rexach-cepip rexach-run all` |
+| **Command** | `podman run --rm -v /path/to/Pineda_rerun:/data:Z pineda-cepip pineda-run all` | `podman run --rm -e REXACH_FIGURE=10 -v /path/to/Rexach_rerun:/data:Z rexach-cepip rexach-run all` |
 | **Run time** | R02 (cell calling): about 1.5 to 2 hours (108 minutes with 6 workers on Windows). R11 to R17 and Table S20: about 15 minutes in the container. `pineda-run r` (R14 to R17 and Table S20): about 5 minutes on the Windows 11 laptop of the independent test. | R11 to R17 and Table S21: about 8 minutes on the development machine, and about 10 minutes on the Windows 11 laptop of the independent test |
 
 ## 4. Reproducibility check

diff --git a/README_container.md b/README_container.md
@@ -17,7 +17,7 @@ seaad-run.sh
 renv.lock
 requirements-python.txt
 scripts/R/          the deposited R scripts, the Part 12 JSON settings and the Part 12
-                    pre-specified readings (Part12_Preset_Readings*.md)
+                    pre-specified readings (Batteries_1-5_Pre-specified_Readings*.md)
 scripts/Python/     the deposited Python scripts and the Mic.13 gene table (Mic13_genes.txt)
 scripts/SuppTables/ the scripts that build Supplementary Tables S1 to S19
 verification/       compare_rerun.py, compare_python.py and compare_gamdata.py
@@ -52,13 +52,13 @@ podman run --rm --shm-size=16g -v /path/to/SEA-AD:/data:Z seaad-cepip seaad-run 
 
 `:Z` lets the container use the folder on systems with SELinux, such as Fedora. `--shm-size=16g` is needed for Part 7 (DecontX), whose worker processes share the count matrix through shared memory; with the default size, Part 7 stops with a bus error.
 
-`seaad-run all` runs `seaad-setup`, then every script in the order of section 4, from the SEA-AD h5ad to Figure 17 and Supplementary Tables S1 to S19. It takes about six hours on the development machine. Other modes run part of the analysis:
+`seaad-run all` runs `seaad-setup`, then every script in the order of section 4, from the SEA-AD h5ad to Figure 9 and Supplementary Tables S1 to S19. It takes about five hours on the development machine. Other modes run part of the analysis:
 
 | Command | Runs | Needs |
 |---|---|---|
-| `seaad-run all` | Python Parts 1 to 8, R Parts 9 to 13, Figure 17, Tables S1 to S19 | the inputs of section 3, items 1 to 3 |
+| `seaad-run all` | Python Parts 1 to 8, R Parts 9 to 13, Figure 9, Tables S1 to S19 | the inputs of section 3, items 1 to 3 |
 | `seaad-run python` | Python Parts 1 to 8, Tables S1 to S6 | the SEA-AD h5ad |
-| `seaad-run r` | R Parts 9 to 13, Figure 17, Tables S7 to S19 | items 1 to 4 of section 3 |
+| `seaad-run r` | R Parts 9 to 13, Figure 9, Tables S7 to S19 | items 1 to 4 of section 3 |
 | `seaad-run hf` | R Parts 9 to 11, Tables S7 to S10 and S12 | item 4 of section 3 only (the Hugging Face files) |
 | `seaad-run tables` | Tables S1 to S19 from outputs already in the data folder | the outputs of the earlier parts |
 | `seaad-run list r` | prints the steps of a mode | - |
@@ -139,7 +139,7 @@ Each script lists its own inputs in its header.
 29) Part12_ModulePostIP_Overview.r
 30) Table S11, then Part10g_CP10K_DEGs_Part1_code_S11_followup_analyses.r (reads the Part 12 labels and Table S11)
 31) Part13a_CP10K_Find14DpctMT_code.r, Part13_CP10K_M4Share_code.r, Part13b_CP10K_M4RandomSubset_code.r
-32) Table S18 (runs Part13c_CP10K_M4_SuppConsolidate_code.r, which also draws Supplementary Figures S20 and S21), then Tables S13 to S17
+32) Table S18 (runs Part13c_CP10K_M4_SuppConsolidate_code.r, which also draws Supplementary Figures S25 and S26), then Tables S13 to S17
 33) Fig17_Summary_code.r
 34) Table S19
 

diff --git a/external_validation/Rexach/README_container_Rexach.md b/external_validation/Rexach/README_container_Rexach.md
@@ -50,19 +50,19 @@ The built image is also on Zenodo, as `rexach-cepip_image.tar.gz` in the same re
 Make a new folder that holds only the inputs of section 3, for example `Rexach_rerun`. Then:
 
 ```bash
-podman run --rm -v /path/to/Rexach_rerun:/data:Z rexach-cepip rexach-run all
+podman run --rm -e REXACH_FIGURE=10 -v /path/to/Rexach_rerun:/data:Z rexach-cepip rexach-run all
 ```
 
 `:Z` lets the container use the folder on systems with SELinux, such as Fedora. With Docker Desktop on Windows, give the Windows path and leave out `:Z`:
 
 ```bash
-docker run --rm -v "C:\Users\<name>\Rexach_rerun:/data" rexach-cepip rexach-run all
+docker run --rm -e REXACH_FIGURE=10 -v "C:\Users\<name>\Rexach_rerun:/data" rexach-cepip rexach-run all
 ```
 
 To compare the rerun with the original results, mount the original `External_Dataset_2` folder read-only at `/ref`, and the original `Manuscript/Supp_Tables` folder at `/ref_supp`, and add `--compare`:
 
 ```bash
-podman run --rm -v /path/to/Rexach_rerun:/data:Z \
+podman run --rm -e REXACH_FIGURE=10 -v /path/to/Rexach_rerun:/data:Z \
     -v /path/to/SEA-AD/External_Dataset_2:/ref:ro,Z \
     -v /path/to/SEA-AD/Manuscript/Supp_Tables:/ref_supp:ro,Z \
     rexach-cepip rexach-run all --compare
@@ -76,13 +76,13 @@ podman run --rm -v /path/to/Rexach_rerun:/data:Z \
 
 Settings, given with `-e` on the run line:
 
-1) `REXACH_FIGURE`. The main figure number in the Table S21 title and file name (default 19).
+1) `REXACH_FIGURE`. The main figure number in the Table S21 title and file name (default 19, as in the image on Zenodo). The submitted version numbers this figure 10, so the commands above give `-e REXACH_FIGURE=10`.
 2) `REXACH_WORKERS`. The workers of `cepip()` in R14 (default 6). The results do not depend on the number of workers. On a laptop with less memory, use `-e REXACH_WORKERS=2`.
 
 Each step's console output is saved to `rexach-run_logs/<step>.txt`, and the start, end, and result of every step to `rexach-run_logs/rexach-run_summary.txt`. The run stops at the first step that fails, because later steps read earlier outputs, and prints the command to resume from that step, for example:
 
 ```bash
-podman run --rm -v /path/to/Rexach_rerun:/data:Z rexach-cepip rexach-run all --from R15_Rexach_diagnosis_contrasts
+podman run --rm -e REXACH_FIGURE=10 -v /path/to/Rexach_rerun:/data:Z rexach-cepip rexach-run all --from R15_Rexach_diagnosis_contrasts
 ```
 
 A step fails when it exits with an error, or when its log shows a Python traceback, a failed check (`[FAIL]`, `VERDICT: FAIL`) or a stop (`STOPPED`, `ERROR:`, `Execution halted`).
